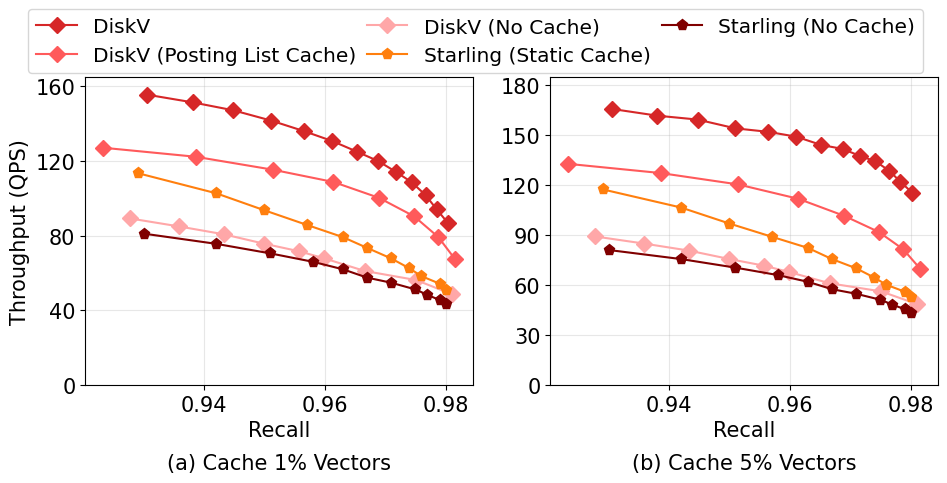
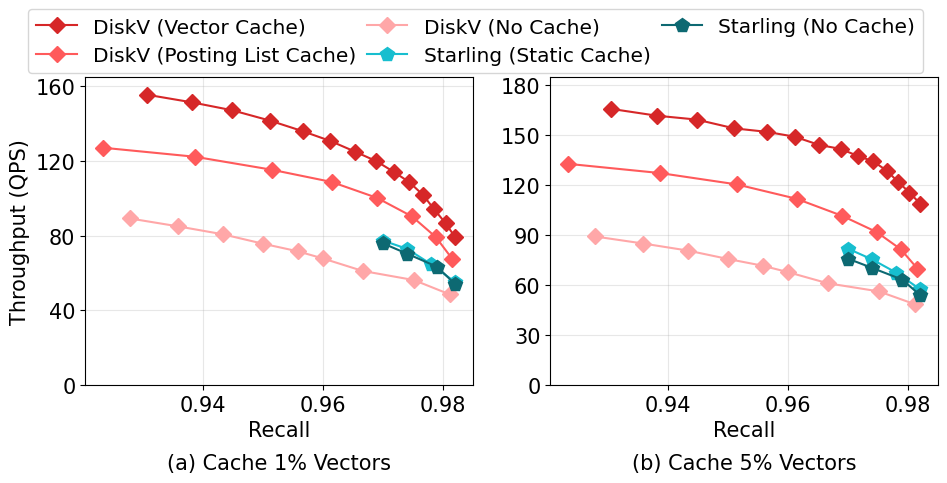
update figure and readme.

diff --git a/README.md b/README.md
@@ -2,7 +2,7 @@
 
 Vector databases have attracted significant attention with the rapid adoption of large language models (LLMs). To improve the cost efficiency of vector search, several disk-based vector indexes, such as SPANN and DiskANN, have been proposed. However, these designs are mainly optimized for high-end, ultra-fast SSDs (e.g., NVMe and Optane) and exhibit poor performance on commodity storage devices, such as HDDs, cloud block storage, and low-end SSDs (e.g., SATA SSDs), which are widely used in practice due to cost and capacity considerations.
 
-In this work, we present DiskV, the first disk-based vector index designed to achieve high search performance on commodity storage. The basic idea of DiskV builds upon a clustering-based indexing structure that partitions the dataset into large buckets, leveraging sequential access patterns to favor commodity storage. To improve performance, DiskV introduces a suite of novel optimizations, including **query-aware adaptive search**, **segment-based pruning**, and an **optimized asynchronous I/O**. Extensive experiments on billion-scale datasets show that DiskV substantially outperforms existing disk-based indexes on commodity storage (by up to **20X**). We also integrate DiskV into PostgreSQL, which demonstrates its practicality in a real database system. Overall, DiskV provides a more **practical and cost-efficient foundation** for supporting large-scale AI applications.
+In this work, we present DiskV, the first disk-based vector index designed to achieve high search performance on commodity storage. The basic idea of DiskV builds upon a clustering-based indexing structure that partitions the dataset into large buckets, leveraging sequential access patterns to favor commodity storage. To improve performance, DiskV introduces a suite of novel optimizations, including **query-aware adaptive search**, **segment-based pruning**, and an **optimized asynchronous I/O**. Extensive experiments on billion-scale datasets show that DiskV substantially outperforms existing disk-based indexes on commodity storage (by up to **19X**). We also integrate DiskV into PostgreSQL, which demonstrates its practicality in a real database system. Overall, DiskV provides a more **practical and cost-efficient foundation** for supporting large-scale AI applications.
 
 ---
 
